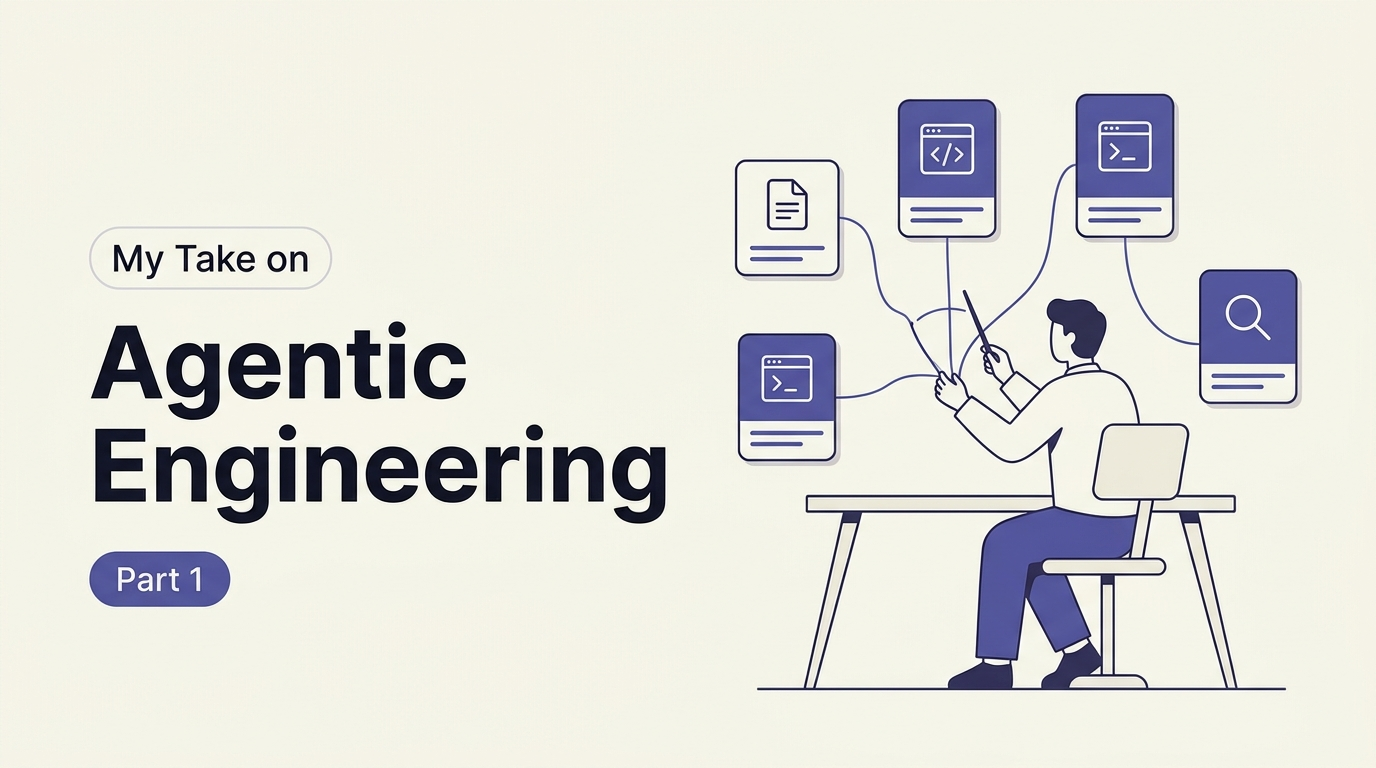
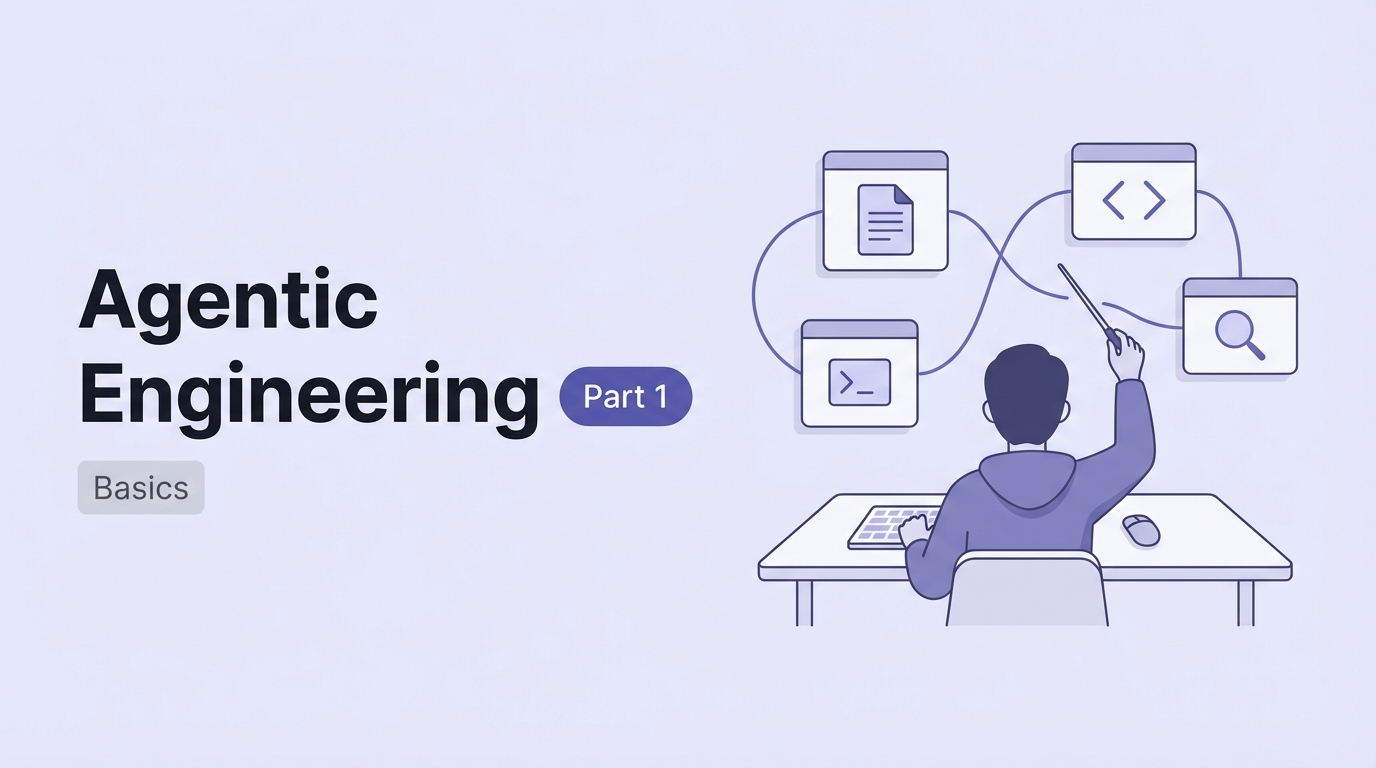
blog update

Changed region(s): [[0.5312, 0.0938, 0.9688, 0.9062], [0.0312, 0.2812, 0.5, 0.6875], [0.0625, 0.7188, 0.1875, 0.8125]]

diff --git a/styles/theme.scss b/styles/theme.scss
@@ -76,6 +76,7 @@ div.sourceCode {
   position: relative;
   border-radius: 10px;
   overflow: hidden;
+  overflow-x: auto;
   border: 1px solid #3A3858;
   margin: 1.2em 0;
 
@@ -155,10 +156,13 @@ div.sourceCode {
     background-color: #1E1C30 !important;
     color: #DDDCF5;
     max-height: 500px;
-    overflow-x: auto;
+    overflow-x: visible;
     overflow-y: auto !important;
 
-    code { white-space: pre !important; }
+    code {
+      display: block;
+      white-space: normal; // collapse \n text nodes between line spans
+    }
   }
 }
 
@@ -172,6 +176,8 @@ pre > code.sourceCode > span {
   counter-increment: line;
   text-indent: -2.8em;
   padding-left: 2.8em;
+  display: block;      // full-width block fixes Safari text selection on non-last lines
+  white-space: pre;    // preserve whitespace within each line
 
   &:before {
     content: counter(line) " ";

diff --git a/.claude/rules/banner-image-generation.md b/.claude/rules/banner-image-generation.md
@@ -1,27 +1,40 @@
 # Blog Banner Image Generation Standard
 
-When generating a banner image for a blog post, always use the **nano-banana skill** (Gemini CLI). Never use Pillow, HTML/CSS+puppeteer, or any other method.
+When generating a banner image for a blog post, use the **claude-image-gen CLI** (guinacio/claude-image-gen). Never use Pillow, HTML/CSS+puppeteer, SVG, or any other method.
 
 ## API Key Safety
 
-**NEVER** write, echo, export, or reference the Gemini API key as a literal value in any command, file, or permission entry. The key lives exclusively in `~/.zshrc` and is available as `$GEMINI_API_KEY` at shell startup. If the key is not set, tell the user to run `source ~/.zshrc` — do not attempt to set it inline.
+**NEVER** write, echo, export, or reference the Gemini API key as a literal value in any command, file, or permission entry. The key lives exclusively in `~/.zshrc` as `$NANOBANANA_GEMINI_API_KEY`. If it is not set, tell the user to run `source ~/.zshrc`.
+
+## Prerequisites
+
+The CLI must be built once before use. If `/tmp/claude-image-gen/mcp-server/build/cli.bundle.js` does not exist:
+
+```bash
+cd /tmp && git clone https://github.com/guinacio/claude-image-gen.git --depth=1
+cd /tmp/claude-image-gen/mcp-server && npm install && npm run bundle
+```
 
 ## Workflow
 
-1. **Invoke the skill** via `Skill tool → nano-banana`
-2. **Run the generation command** from the target directory:
+1. **Run the CLI** from the banners directory:
    ```bash
-   export GEMINI_API_KEY="$NANOBANANA_GEMINI_API_KEY"
-   cd /Users/pingfan/Documents/GitHub/website/blog/banners
-   gemini --yolo "/generate '...prompt...'"
+   GEMINI_API_KEY="$NANOBANANA_GEMINI_API_KEY" node /tmp/claude-image-gen/mcp-server/build/cli.bundle.js \
+     --prompt "...prompt..." \
+     --aspect-ratio "16:9"
    ```
-3. **Find the output** in `./nanobanana-output/` and preview it with the Read tool
-4. **Convert and copy to final path** once approved — nanobanana outputs JPEGs with a `.png` extension, which Quarto rejects. Always re-encode as a real PNG:
+   The output directory defaults to the current working directory.
+
+2. **Preview** the generated `.jpg` with the Read tool.
+
+3. **Convert to PNG and save** to the final path once approved:
    ```python
    from PIL import Image
-   img = Image.open('blog/banners/nanobanana-output/<generated-file>.png')
+   img = Image.open('blog/banners/generated-<uuid>.jpg')
    img.save('blog/banners/<date-slug>.png', format='PNG')
    ```
+
+4. **Delete** the temporary `.jpg` after conversion.
 
 ## Output Path Convention
 
@@ -33,28 +46,34 @@ This matches the `image:` field in the post's front matter.
 
 ## Visual Style Standard
 
-Always include these constraints in the prompt to stay consistent with the site aesthetic:
+Always include these constraints in the prompt to stay consistent with the approved reference:
 
-- **Background**: warm cream/off-white (`#F8F7F0`), never dark
+- **Background**: light lavender (`#E8E7F8`), never dark, never the same cream as the page background (`#F8F7F0`)
 - **Accent color**: muted purple/indigo (`#5654A2`) for cards, lines, badges, icons
 - **Illustration style**: clean flat design, minimal depth — NOT sci-fi, NOT neon, NOT 3D render
-- **Icon style**: simple line icons (Lucide-style)
-- **No busy backgrounds**: no gradients, no grids unless very subtle
-- **Text in image**: include the post title split as a small label + large bold main title + small `Part N` pill if applicable
+- **Card style**: UI-window cards with simple line icons only (no text labels inside cards)
+- **No busy backgrounds**: no gradients, no grids
+- **Text layout**: large bold main title on the left (mixed case, NOT all-caps), with a small rounded purple pill `Part N` inline on the last title line if applicable, and a small plain gray subtitle label below
 
 ## Prompt Template
 
 ```
-Blog banner image for a post titled '[FULL TITLE]'. Clean modern flat illustration style.
-Warm cream off-white background (#F8F7F0). [VISUAL CONCEPT — one sentence describing the scene].
-Muted purple (#5654A2) as the dominant accent color. Text overlaid: small label '[SUBTITLE]'
-above large bold '[MAIN TITLE]' [and a small purple pill badge saying 'Part N' if applicable].
-Minimal, academic, professional tech blog aesthetic. Flat design, subtle depth,
-no dark backgrounds, no neon, no sci-fi.
+Blog banner for a tech blog post. Light lavender background (#E8E7F8).
+Right side: flat illustration of a person sitting at a desk viewed from behind,
+raising a conductor baton toward four floating UI card panels connected by curved
+purple lines — the cards show small icons only ([ICON 1], [ICON 2], [ICON 3], [ICON 4]),
+no text inside the cards.
+Left side: large bold dark mixed-case text '[MAIN TITLE]' across two or three lines,
+then on the same line as the last title word a small rounded purple pill labeled 'Part N',
+then below all of that a small plain gray label reading '[SUBTITLE]'.
+Muted purple (#5654A2) accent color throughout. Clean minimal flat design,
+academic aesthetic, no dark background, no neon, no sci-fi.
 ```
 
 ## Reference
 
 - Approved example: `blog/banners/2026-03-26-agentic-engineering-1.png`
-  - Concept: person at desk conducting floating AI agent cards (file, code, terminal, search) connected by lines
-  - Style: flat illustration, cream bg, purple accent, conductor metaphor for agentic orchestration
+  - Background: light lavender (`#E8E7F8`)
+  - Concept: person at desk from behind, conducting four floating UI cards (document, code brackets, terminal, magnifying glass) connected by curved purple lines
+  - Text layout: large bold "Agentic Engineering" + "Part 1" pill inline, "Basics" label below
+  - Style: flat illustration, lavender bg, purple accent, conductor metaphor
